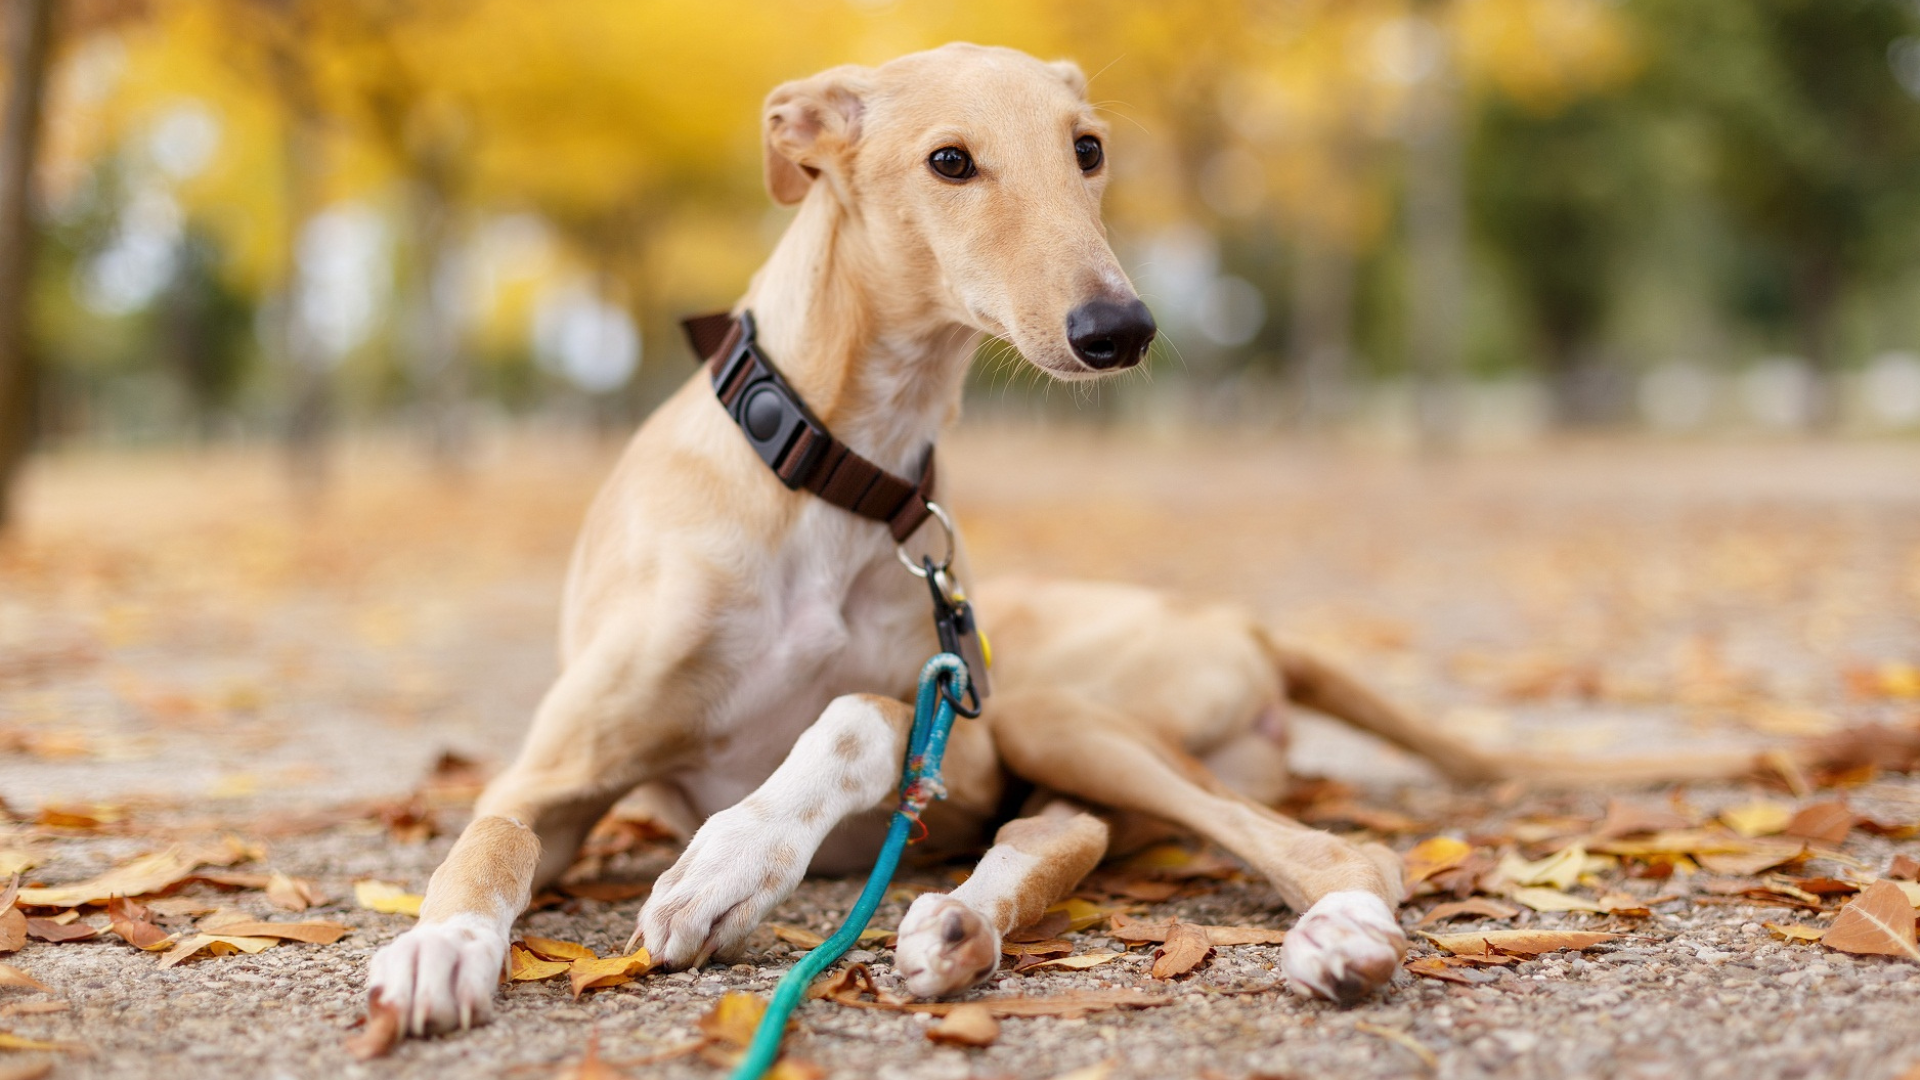
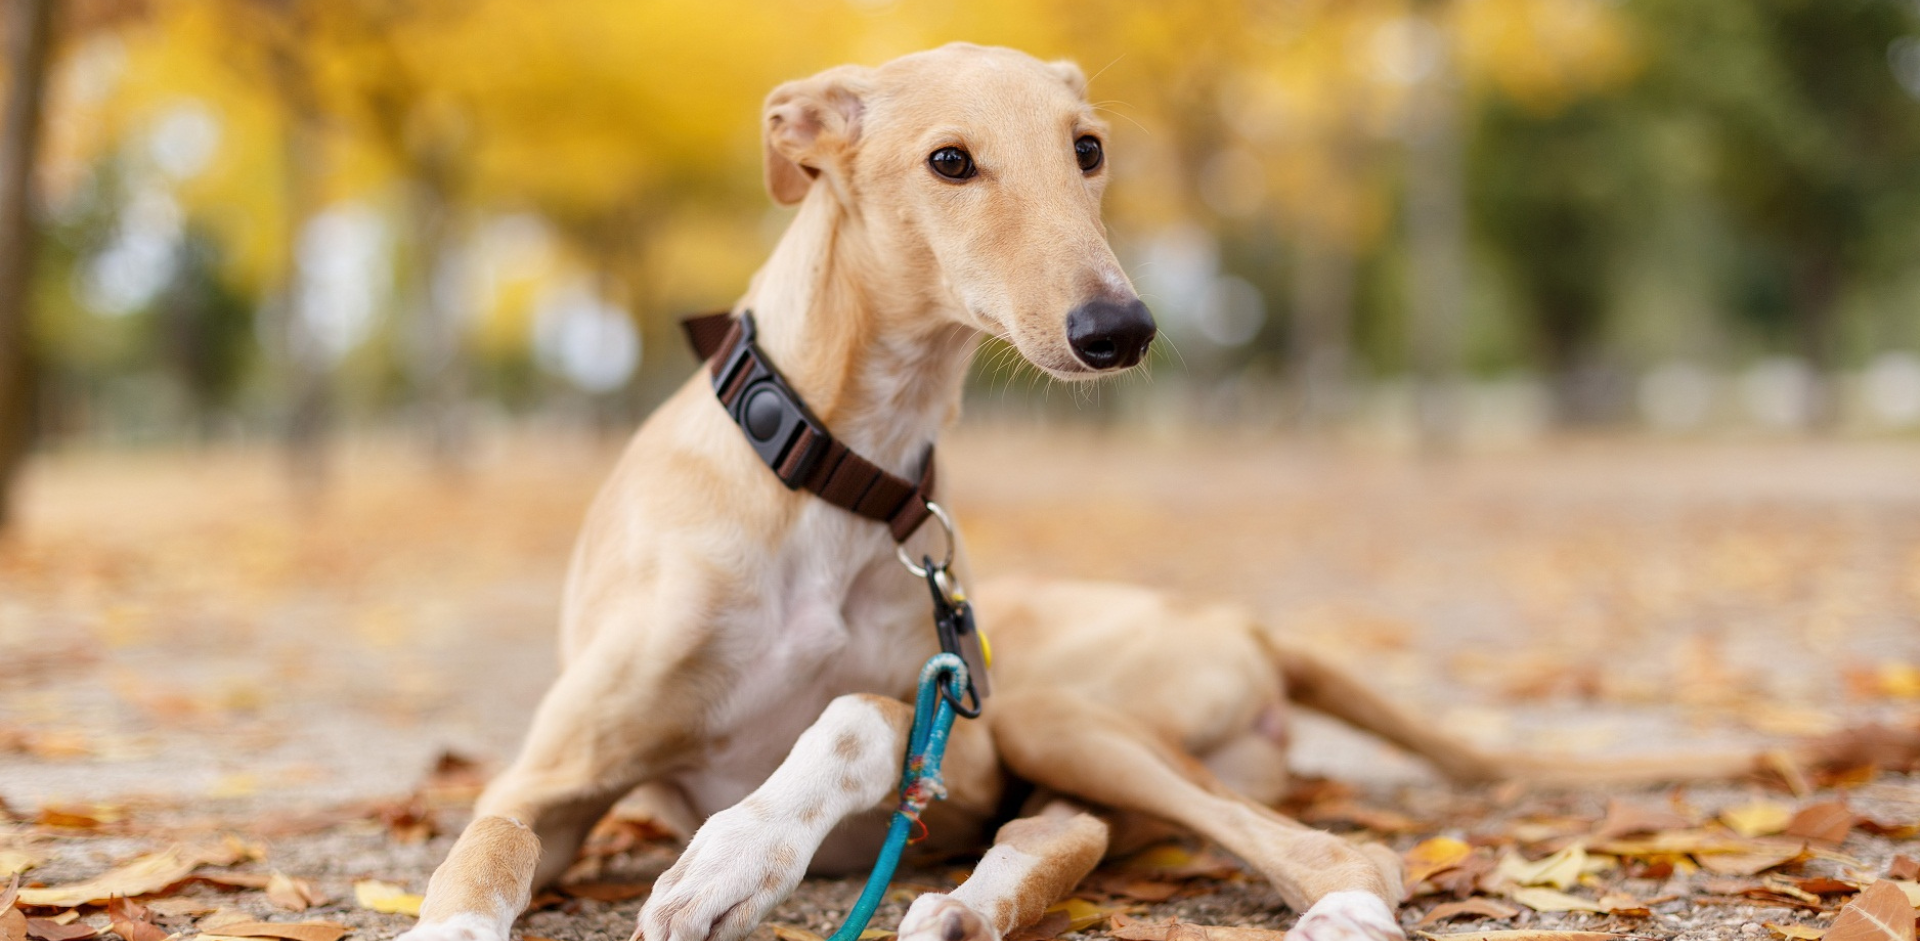
carrusel y cartas

diff --git a/html/index.html b/html/index.html
@@ -12,6 +12,7 @@
             <link rel="preconnect" href="https://fonts.gstatic.com" crossorigin>
             <link href="https://fonts.googleapis.com/css2?family=Josefin+Sans:ital,wght@0,100..700;1,100..700&display=swap" rel="stylesheet">
             <link rel="stylesheet" href="../css/barranav.css" >
+            <link rel="stylesheet" href="../css/botones.css">
             <link rel="stylesheet" href="../css/secciones.css">
             <link rel="stylesheet" href="../css/carrusel.css" >
             <link rel="stylesheet" href="../css/imagenes.css">
@@ -75,7 +76,7 @@
 
            
                 <!--crruseel-->
-                
+                <div id="ajusteImagen">
                 <div id="carouselExampleCaptions" class="carousel slide">
                     <div class="carousel-indicators">
                       <button type="button" data-bs-target="#carouselExampleCaptions" data-bs-slide-to="0" class="active" aria-current="true" aria-label="Slide 1"></button>
@@ -84,7 +85,7 @@
                     </div>
                     <div class="carousel-inner">
                       <div class="carousel-item active">
-                        <img src="../imagenes/galgo1.png" class="d-block w-100 galgo" alt="...">
+                        <img src="../imagenes/galgo1.png" class="d-block  galgo" alt="...">
                         <div class="carousel-gradient"></div>
                         <div class="carousel-caption d-none d-md-block">
                           <h1>TRANSITAR ES IMPORTANTE</h1>
@@ -94,7 +95,7 @@
                         </div>
                       </div>
                       <div class="carousel-item">
-                        <img src="../imagenes/perritomoños1.png" class="d-block w-100 galgo" alt="...">
+                        <img src="../imagenes/perritomoños1.png" class="d-block galgo" alt="...">
                         <div class="carousel-gradient"></div>
                         <div class="carousel-caption d-none d-md-block">
                           <h1>SOÑAMOS CON UN MUNDO SIN CALLEJERITOS</h1>
@@ -103,7 +104,7 @@
                         </div>
                       </div>
                       <div class="carousel-item">
-                        <img src="../imagenes/gatos1.png" class="d-block w-100 galgo" alt="...">
+                        <img src="../imagenes/gatos1.png" class="d-block  galgo" alt="...">
                         <div class="carousel-gradient"></div>
                         <div class="carousel-caption d-none d-md-block">
                           <h1>TU AYUDA SALVA VIDAS</h1>
@@ -123,6 +124,7 @@
                     </button>
                   </div>
                   </div>
+                </div>
 
                   <!--secciones-->
                   <!-- Sección 1 -->
@@ -196,35 +198,35 @@
                   <h2 class="section-title" class="refugiostitulo"><strong> REFUGIOS </strong></h2>
                   <div class="cartascentradas">
                     <div class="card" style="width: 18rem;">
-                      <img src="https://image.petmd.com/files/styles/978x550/public/2021-12/stray%20dog%20looking%20back%20on%20road.jpg" class="card-img-top" alt="...">
+                      <img src="https://image.petmd.com/files/styles/978x550/public/2021-12/stray%20dog%20looking%20back%20on%20road.jpg" class="RefugiosImg" alt="...">
                       <div class="card-body">
                         <h5 class="card-title"><strong>Perritos de Cdad. Evita</strong></h5>
                         <p class="card-text">Contacto: Patrifac@gmail.com </p>
-                        <a href="https://www.instagram.com/perritoscdadevita/" class="btn btn-primary">Instagram</a>
+                        <a href="https://www.instagram.com/perritoscdadevita/" class="RefugioBoton">Instagram</a>
                       </div>
                     </div>
                     <div class="card" style="width: 18rem;">
-                      <img src="https://images.squarespace-cdn.com/content/v1/5e7d1a6f18b2b26e9726b89f/56242148-bc8f-4477-b75d-10c9fe04406a/Screen+Shot+2022-05-09+at+4.14.23+PM.png" class="card-img-top" alt="...">
+                      <img src="https://images.squarespace-cdn.com/content/v1/5e7d1a6f18b2b26e9726b89f/56242148-bc8f-4477-b75d-10c9fe04406a/Screen+Shot+2022-05-09+at+4.14.23+PM.png" class="RefugiosImg" alt="...">
                       <div class="card-body">
                         <h5 class="card-title"><strong>Huellitas de Catan</strong></h5>
                         <p class="card-text">Contacto: 1135678909</p>
-                        <a href="https://www.instagram.com/huellitasdecatan/" class="btn btn-primary">Instagram</a>
+                        <a href="https://www.instagram.com/huellitasdecatan/" class="RefugioBoton">Instagram</a>
                       </div>
                     </div>
                     <div class="card" style="width: 18rem;">
-                      <img src="https://assets3.thrillist.com/v1/image/3087747/792x594/scale;webp=auto;jpeg_quality=60.jpg" class="card-img-top" alt="...">
+                      <img src="https://assets3.thrillist.com/v1/image/3087747/792x594/scale;webp=auto;jpeg_quality=60.jpg" class="RefugiosImg" alt="...">
                       <div class="card-body">
-                        <h5 class="card-title"><strong>Rescataditos Lomas del Mirador</strong></h5>
+                        <h5 class="card-title"><strong>Rescataditos LDM</strong></h5>
                         <p class="card-text">WhatsApp: 1158957973 </p>
-                        <a href="https://www.instagram.com/rescataditos.ldm/" class="btn btn-primary">Instagram</a>
+                        <a href="https://www.instagram.com/rescataditos.ldm/" class="RefugioBoton">Instagram</a>
                       </div>
                     </div>
                     <div class="card" style="width: 18rem;">
-                      <img src="https://images.ctfassets.net/sfnkq8lmu5d7/3fpn49SoGavFjhwXoPe0HR/a7792000b30c7210d170f3aa56f1c8a1/The_Wildest_Editorial_Adopt_a_Dog_from_Another_Country_Hero.jpg?w=1000&h=750&fl=progressive&q=70&fm=jpg" class="card-img-top" alt="...">
+                      <img src="https://images.ctfassets.net/sfnkq8lmu5d7/3fpn49SoGavFjhwXoPe0HR/a7792000b30c7210d170f3aa56f1c8a1/The_Wildest_Editorial_Adopt_a_Dog_from_Another_Country_Hero.jpg?w=1000&h=750&fl=progressive&q=70&fm=jpg" class="RefugiosImg" alt="...">
                       <div class="card-body">
                         <h5 class="card-title"><Strong>Patitas de la UNLAM</Strong></h5>
                         <p class="card-text">Contacto: @deesemichinotengo </p>
-                        <a href="https://www.instagram.com/patitasdelaunlam/" class="btn btn-primary">Instagram</a>
+                        <a href="https://www.instagram.com/patitasdelaunlam/" class="RefugioBoton">Instagram</a>
                       </div>
                     </div>
                   </div>

diff --git a/css/secciones.css b/css/secciones.css
@@ -5,8 +5,8 @@ section {
     }
 .section-1 {
     background-color: #c7b19c;
-    padding-bottom: 70px; /*marca bien los margenes*/
-    padding-top: 40px; /*marca bien los margenes*/
+    padding-bottom: 70px; 
+    padding-top: 40px; 
     
 }    
 .section-1-container {
@@ -178,7 +178,7 @@ section {
 .section-5 .section-title {
     font-size: 2.5em;
     margin-top: 35px;
-    margin-bottom: 80px; /* Puedes ajustar este valor según la cantidad de espacio que desees */
+    margin-bottom: 80px;
 }
 
 .cartascentradas{ 
@@ -194,7 +194,7 @@ section {
     margin-bottom: 10px;
     height: 780px;
     
-}
+}/* Instagram de la pag*/
 
 
 .section-6 {
@@ -207,10 +207,22 @@ section {
 
 
 
-.cartascentradas{ 
-    display: flex;
-    justify-content: space-around;
+
+
+
+.RefugiosImg {
+    flex-basis: 13rem; /* Asegura que la imagen ocupe el ancho completo del contenedor */
+    height: 250px; /* Mantén la proporción de la imagen */
+    filter: grayscale(100%); /* Convertir imágenes a blanco y negro */
+    border-radius: 5px; /* Bordes redondeados */
+    transition: filter 0.3s ease, transform 0.3s ease; /* Transición suave en hover */
 }
 
 
 
+.card {
+    width: 45rem; /* Aumenta el ancho de la carta */
+    margin: 15px; /* Añade un poco de margen alrededor de cada carta */
+    padding: 10px; /* Añade padding dentro de la carta */
+    border-radius: 10px; /* Mantén los bordes redondeados */
+    box-shadow: 0 4px 8px rgba(0, 0, 0, 0.2); }

diff --git a/js/java.js b/js/java.js
@@ -12,3 +12,28 @@ const categorias = document.querySelectorAll('.categoria');
                 categoria.style.fontSize = ''; // Restaurar el tamaño de letra original al quitar el mouse
             });
         });
+
+        // Cambiar color de fondo del botón al pasar el mouse
+document.querySelectorAll('.RefugioBoton').forEach(function(button) {
+    button.addEventListener('mouseover', function() {
+        button.style.backgroundColor = '#36240F'; // Color de fondo cuando se hace hover
+    });
+
+    button.addEventListener('mouseout', function() {
+        button.style.backgroundColor = ''; // Color de fondo original
+    });
+});
+
+// Restaurar color y hacer zoom en las imágenes al pasar el mouse
+document.querySelectorAll('.RefugiosImg').forEach(function(img) {
+    img.addEventListener('mouseover', function() {
+        img.style.filter = 'grayscale(0%)'; // Restaurar color al pasar el mouse
+        img.style.transform = 'scale(1.05)'; // Hacer un pequeño zoom en la imagen
+    });
+
+    img.addEventListener('mouseout', function() {
+        img.style.filter = 'grayscale(100%)'; // Aplicar escala de grises
+        img.style.transform = 'scale(1)'; // Restaurar tamaño original #5b483b
+    });
+});
+

diff --git a/css/botones.css b/css/botones.css
@@ -1,12 +1,13 @@
-#mi-boton {
-    background-color:  rgb(129, 32, 86); 
-    border: none;
-    color: white;
-    padding: 15px 32px;
-    text-align: center;
-    text-decoration: none;
-    display: inline-block;
-    font-size: 16px;
-    margin: 4px 2px;
-    cursor: pointer;
-    border-radius: 12px; }
+.RefugioBoton {
+    background-color: #5b483b; /* Color de fondo del botón */
+    color: white; /* Color del texto */
+    padding: 10px 20px; /* Relleno del botón */
+    text-align: center; /* Alinear texto en el centro */
+    text-decoration: none; /* Eliminar subrayado */
+    display: inline-block; /* Mostrar como bloque en línea */
+    border-radius: 5px; /* Bordes redondeados */
+    font-weight: bold; /* Texto en negrita */
+    transition: background-color 0.3s ease; /* Transición suave en hover */
+}
+
+

diff --git a/css/carrusel.css b/css/carrusel.css
@@ -1,7 +1,12 @@
 .carousel-item {
     position: relative;
 }
-
+#ajusteImagen img {
+    width: 100%; /* Cambia el tamaño según tus necesidades */
+    height: 850px;
+    margin: 0 auto;
+  }
+  
 .carousel-inner .galgo {
     max-width: 100%; /* me queda gigante decir a la profe*/
     height: auto;
